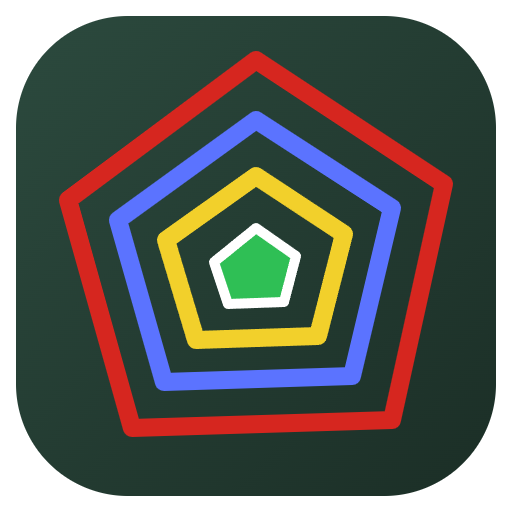
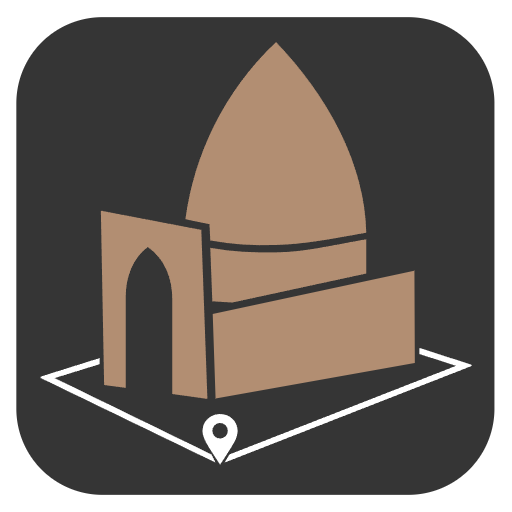
1.4.0: жаңа логотип, релиз жазбасы
src/img/icon.svg — жаңа белгі (кесене және картадағы нүкте);
src/img/icon.png, build/icon.png — одан қайта жасалды (npm run icon).
Нұсқа 1.4.0, build/release-notes.md жаңартылды.

diff --git a/build/release-notes.md b/build/release-notes.md
@@ -1,10 +1,20 @@
-## Mura GIS 1.3.3
+## Mura GIS 1.4.0
 
-### Рим цифрлары атауларда
-- Рим цифры кириллицамен де, латынмен де жазылса бірдей танылады: **ІV = IV = ІҮ = IY = 4**, **V = Y = Ү = 5** (кирилл «І» мен латын «I» бірдей).
-- **Қорғау аймақтары** тізімі («Атауы», «Аудан, атауы» бойынша) және біріктірілген DOCX реті рим цифрын санмен салыстырады: «…-IV» енді «…-V»-тен бұрын тұрады.
-- Іздеу рим цифрын қай әліппен, қай регистрде терсеңіз де табады (`iv`, `іү`, `IY`, `4`) — ескерткіштерде де, қорғау аймақтарында да. Маршруттардағы атаулар тізімі де осы ретпен сұрыпталады.
+### Жаңа логотип
+- Бағдарламаның жаңа белгісі: кесене мен картадағы нүкте. Терезеде, тапсырмалар жолағында, орнатқышта және бастапқы терезеде.
 
-### Мыңдаған белгі
-- Картада тек көрініп тұрған аумақтағы белгілер салынады, тығыз жерде — жеңіл canvas-нүктелер: 10 000 белгі мен 10 000 импортталған нүкте қатпай жүктеледі.
-- Белгілер мен импорттар тізімі бөлшектеп салынады, сұрыптау нәтижесі есте сақталады — іздеу мен сүзгі жылдамырақ.
+### Белгілер ↔ қорғау аймақтары синхрондауы
+- Қорғау аймағы ескерткіш белгісімен байланысады: атауы, мерзімі, облыс, аудан, орналасқан жері (қазақша және орысша) және түрі бір жерде өзгерсе, екіншісінде де жаңарады — бір деректі екі рет жазудың қажеті жоқ.
+- Аймақ терезесінде «Белгіленген ескерткіш» таңдалса — байланыс. Тізімдегі «белгі» таңбасы байланысқан аймақты көрсетеді.
+- **«Белгілермен синхрондау»** («Қорғау аймақтары» панелі): бұрынғы аймақтар атауы бірдей, 2 км ішіндегі белгімен байланысады; белгісі жоқ аймаққа шекараның ортасына белгі жасалады. Алдымен жоспар көрсетіледі. Толтырылған өріс бос мәнмен ешқашан өшірілмейді.
+
+### Жобаны сақтау
+- Жолақта **«Сақтау»** батырмасы (Ctrl+S, «Файл → Жобаны сақтау»).
+- **«Баптаулар → Жоба → Сақтау»**: авто сақтау (әдепкі — қосулы, бұрынғыдай). Өшірілсе, өзгерістер «Сақтау» басылғанда ғана жазылады; күй жолағында «● Сақталмаған өзгерістер»; жоба не бағдарлама жабылғанда сұралады.
+
+### Қорғау аймағы
+- «Тазалау» батырмасы «⋯» мәзірінен құралдар жолағының екінші қатарына шықты. Сақталған жазба ашық болса, ол **«Жабу»** болады: жазба тізімде сақтаулы қалады, редактор бос жаңа жазбаға оралады.
+- Координата панеліндегі уақытша нүкте «×» арқылы жабылғанда, ендік пен бойлық өрістері де тазаланады.
+
+### Экспорт
+- Файл атаулары құжат тілінде: қазақша — «Атауы_қорғау_аймағы.docx», «Ескерткіштер_тізімі_….pdf», орысша — «Наименование_охранная_зона.docx», «Список_памятников_….pdf» т.б.
